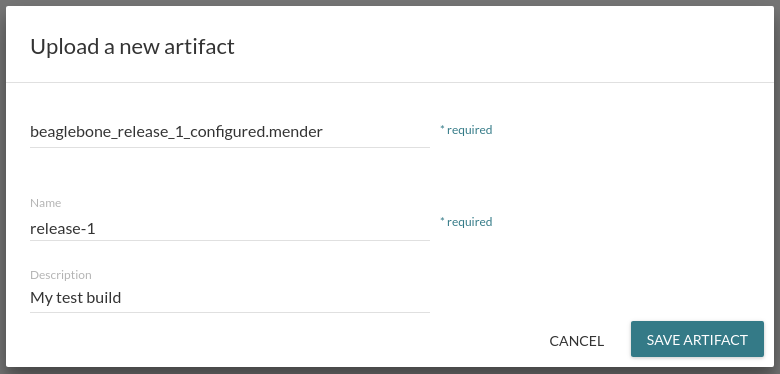
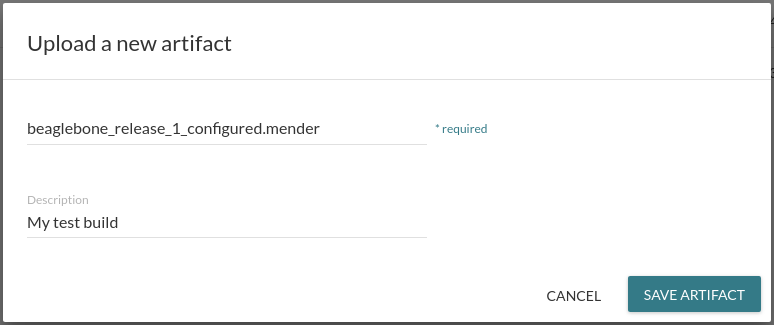
update screenshots for physical getting started with new release

diff --git a/01.Getting-started/04.Deploy-to-physical-devices/docs.md b/01.Getting-started/04.Deploy-to-physical-devices/docs.md
@@ -63,7 +63,7 @@ You can decompress it like the following:
 gunzip mender-beaglebone.sdimg.gz
 ```
 
-!!! The decompressed disk image is 1 GB by default. This is because Mender blocks free space so that your root file system is allowed to grow over time. If you are building your own disk image by following [Building a Mender Yocto Project image](../../Artifacts/Building-Mender-Yocto-image), you can configure the desired space usage with the Yocto Project variable [MENDER_STORAGE_TOTAL_SIZE_MB](../../Artifacts/Variables#mender_storage_total_size_mb).
+!!! Mender blocks free space in the disk image so that your root file system is allowed to grow over time. If you are building your own disk image by following [Building a Mender Yocto Project image](../../Artifacts/Building-Mender-Yocto-image), you can configure the desired space usage with the Yocto Project variable [MENDER_STORAGE_TOTAL_SIZE_MB](../../Artifacts/Variables#mender_storage_total_size_mb).
 
 We need to change some configuration settings in this image so that
 the Mender client successfully connects to your Mender
@@ -286,12 +286,8 @@ the filename of the created Artifact.
 
 Before we can deploy the Artifact we prepared above it needs
 to be uploaded to the server.
-
 Go to the Mender server UI, click the **Artifacts** tab and upload this Artifact,
-using the fields below:
-
-* Name: `release-1`
-* Description: `My test build`
+you can set *Description* to `My test build`.
 
 In the UI it should look something like this:
 
@@ -304,17 +300,16 @@ Now that we have the device connected and the image
 uploaded to the server, all that remains is to go to the
 **Deployments** tab and click **Create a deployment**.
 
-Select the image you just uploaded and **All devices**, then
+Select the Artifact you just uploaded and **All devices**, then
 **Create deployment**.
 
-!!! If you deploy to several device types (e.g. vexpress-qemu), the Mender server will skip these if no compatible artifact is available. This condition is indicated by the *noartifact* status. Mender does this to avoid deployments of incompatible rootfs images.
+!!! If you deploy across several device types (e.g. `beaglebone` and `vexpress-qemu`), the Mender server will skip these if no compatible artifact is available. This condition is indicated by the *noartifact* status in the deployment report. Mender does this to avoid deployments of incompatible rootfs images. However, if you have Artifacts for these other device types, identified by the same Artifact name, then Mender will deploy to all the devices there are compatible Artifacts for.
 
 
 ## See the progress of the deployment
 
 As the deployment progresses, you can click on it to view more details about the current status across all devices.
-In the example below, we can see that a BeagleBone has installed the update and is rebooting into it.
-The QEMU device is skipped because no compatible artifact was available for it.
+In the example below, we can see that a BeagleBone is downloading the update.
 
 ![Mender UI - Deployment progress - BeagleBone Black](deployment_report_bbb.png)
 

diff --git a/04.Artifacts/04.Modifying-a-disk-image/docs.md b/04.Artifacts/04.Modifying-a-disk-image/docs.md
@@ -21,19 +21,20 @@ fdisk -l -u mender-beaglebone.sdimg
 The output should look similar to the following:
 
 ```
-Disk mender-beaglebone.sdimg: 1056 MB, 1056964608 bytes
-4 heads, 32 sectors/track, 16128 cylinders, total 2064384 sectors
-Units = sectors of 1 * 512 = 512 bytes
+Disk mender-beaglebone.sdimg: 384 MiB, 402653184 bytes, 786432 sectors
+Units: sectors of 1 * 512 = 512 bytes
 Sector size (logical/physical): 512 bytes / 512 bytes
 I/O size (minimum/optimal): 512 bytes / 512 bytes
-Disk identifier: 0x23737de7
+Disklabel type: dos
+Disk identifier: 0x7dea8cfc
 
-                  Device Boot      Start         End      Blocks   Id  System
-mender-beaglebone.sdimg1   *       49152       81919       16384    c  W95 FAT32 (LBA)
-mender-beaglebone.sdimg2           81920      933887      425984   83  Linux
-mender-beaglebone.sdimg3          933888     1785855      425984   83  Linux
-mender-beaglebone.sdimg4         1802239     2064383      131072+   f  W95 Ext'd (LBA)
-mender-beaglebone.sdimg5         1802240     2064383      131072   83  Linux
+Device                   Boot  Start    End Sectors  Size Id Type
+mender-beaglebone.sdimg1 *     49152  81919   32768   16M  c W95 FAT32 (LBA)
+mender-beaglebone.sdimg2       81920 294911  212992  104M 83 Linux
+mender-beaglebone.sdimg3      294912 507903  212992  104M 83 Linux
+mender-beaglebone.sdimg4      524287 786431  262145  128M  f W95 Ext'd (LBA)
+mender-beaglebone.sdimg5      524288 786431  262144  128M 83 Linux
+
 ```
 
 In this example there are four partitions (plus an extended partition). Please see
@@ -50,8 +51,8 @@ The second piece of information we need is the *start sector* of the partition w
 This is the second column in the output from `fdisk`. The start sector is shown in bold below for
 our two rootfs partitions:
 
-> mender-beaglebone.sdimg2           **81920**      933887      425984   83  Linux  
-> mender-beaglebone.sdimg3          **933888**     1785855      425984   83  Linux  
+> mender-beaglebone.sdimg2       **81920** 294911  212992  104M 83 Linux  
+> mender-beaglebone.sdimg3      **294912** 507903  212992  104M 83 Linux  
 
 In order to mount a partition we simply multiply the sector size and the start sector
 and pass that to `mount`. You can use `bash` to do this calculation for you.
@@ -66,7 +67,7 @@ sudo mount -o loop,offset=$((512*81920)) mender-beaglebone.sdimg /mnt/rootfs1
 ```
 
 ```bash
-sudo mount -o loop,offset=$((512*933888)) mender-beaglebone.sdimg /mnt/rootfs2
+sudo mount -o loop,offset=$((512*294912)) mender-beaglebone.sdimg /mnt/rootfs2
 ```
 
 Now you can modify the rootfs file systems in the paths `/mnt/rootfs1` and `/mnt/rootfs2`.
